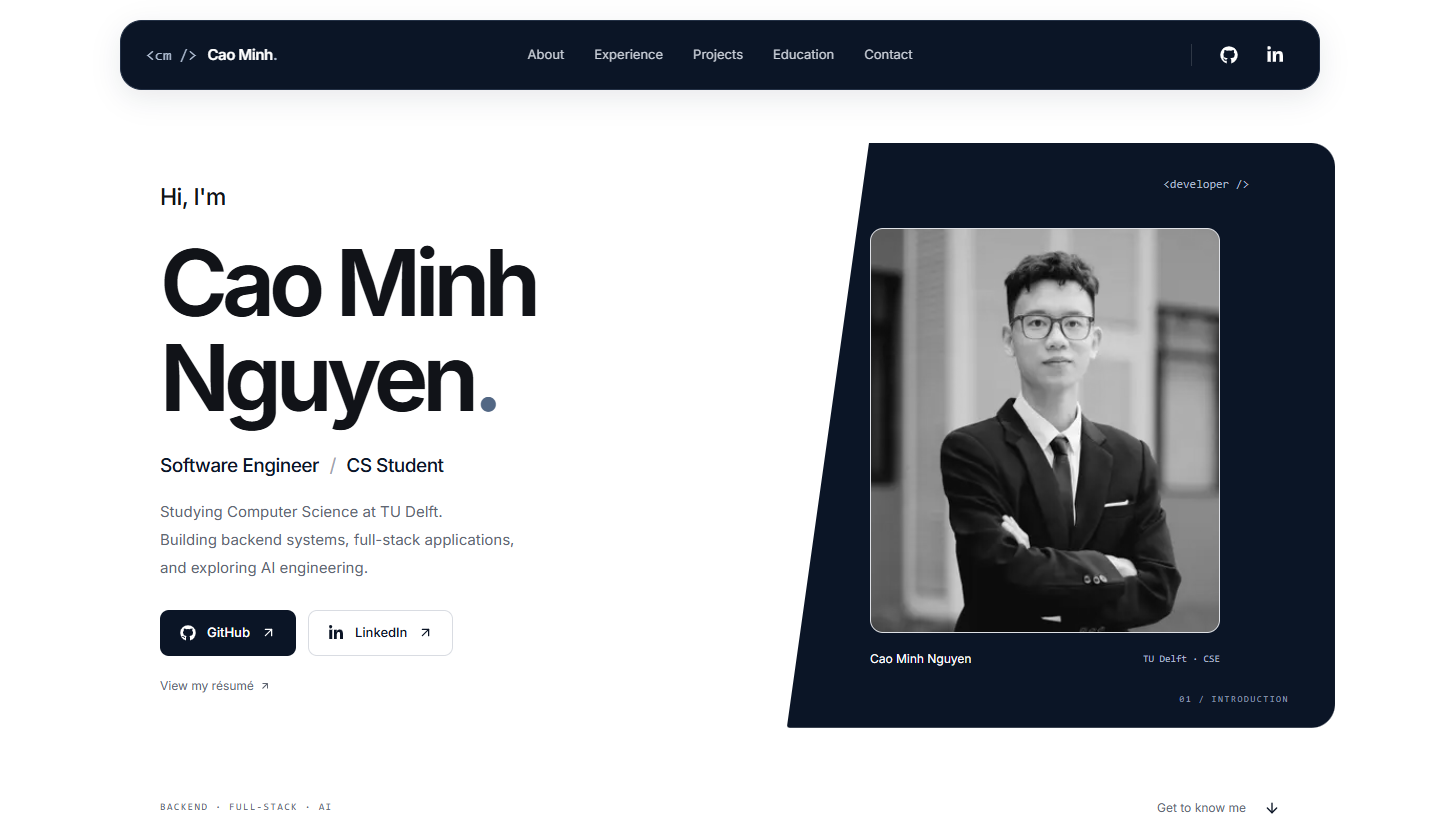
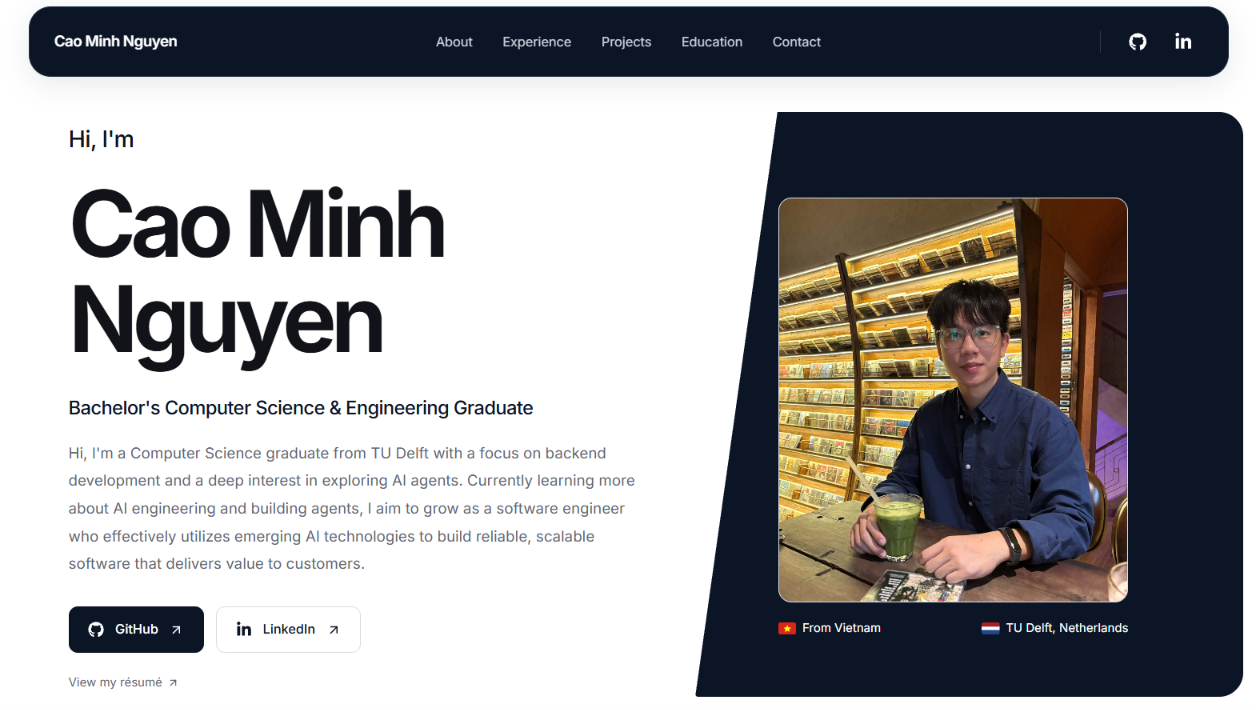
Edit button color

diff --git a/src/app/globals.css b/src/app/globals.css
@@ -8,7 +8,7 @@
   --soft: #f5f6f8;
   --background: #ffffff;
   --foreground: #111318;
-  --primary: #0b1526;
+  --primary: #162e50;
   --primary-foreground: #ffffff;
   --secondary: #f5f6f8;
   --secondary-foreground: #0b1526;
@@ -170,12 +170,14 @@ main:focus {
   border-radius: 10px;
   font-size: 18px;
   color: white;
+  background: var(--primary);
   transition:
     background 180ms,
     transform 180ms;
 }
 .nav-social:hover {
-  background: #ffffff12;
+  background: var(--primary);
+  box-shadow: 0 5px 15px #162e5026;
   transform: translateY(-2px);
 }
 .nav-actions::before {
@@ -187,7 +189,7 @@ main:focus {
 }
 .menu-toggle {
   display: none;
-  background: transparent;
+  background: var(--primary);
   border: 1px solid #ffffff25;
 }
 .mobile-nav {
@@ -277,21 +279,23 @@ main:focus {
   font-size: 15px;
 }
 .button-primary {
-  background: var(--navy);
+  background: var(--primary);
   color: white;
+  border-color: var(--primary);
 }
 .button-primary:hover {
-  background: #21334e;
-  box-shadow: 0 5px 15px #0b152618;
+  background: var(--primary);
+  border-color: var(--primary);
+  box-shadow: 0 5px 15px #162e5026;
   transform: translateY(-2px);
 }
 .button-outline {
   background: white;
-  color: var(--navy);
+  color: var(--primary);
   border-color: #d9dce2;
 }
 .button-outline:hover {
-  border-color: var(--navy);
+  border-color: var(--primary);
   background: #f7f8fa;
   transform: translateY(-2px);
 }
@@ -504,6 +508,24 @@ main:focus {
   background: var(--soft);
   border: 1px solid #e9ebef;
   border-radius: 5px;
+}
+.skill-tag {
+  transition:
+    transform 180ms ease,
+    box-shadow 180ms ease,
+    border-color 180ms ease;
+}
+@media (hover: hover) {
+  .skill-tag:hover {
+    transform: translateY(-3px) scale(1.04);
+    box-shadow: 0 5px 12px rgb(11 21 38 / 10%);
+    border-color: #c5cdd9;
+  }
+}
+@media (prefers-reduced-motion: reduce) {
+  .skill-tag:hover {
+    transform: none;
+  }
 }
 .experience-list {
   padding-left: 33px;
@@ -777,11 +799,11 @@ main:focus {
 }
 .pagination button[aria-current="page"] {
   color: white;
-  background: var(--navy);
-  border-color: var(--navy);
+  background: var(--primary);
+  border-color: var(--primary);
 }
 .pagination button:hover:not(:disabled):not([aria-current="page"]) {
-  color: var(--navy);
+  color: var(--primary);
   background: var(--soft);
 }
 .pagination button:disabled {
@@ -809,10 +831,20 @@ main:focus {
   width: 47px;
   height: 47px;
   border: 1px solid var(--line);
-  background: #f8f9fb;
+  background: #ffffff;
   color: var(--navy);
   font-size: 20px;
   border-radius: 10px;
+}
+.education-logo {
+  width: 100%;
+  height: 100%;
+  padding: 4px;
+  object-fit: contain;
+}
+.education-item h3 a:hover {
+  text-decoration: underline;
+  text-underline-offset: 3px;
 }
 .education-item h3 {
   font-size: 17px;

diff --git a/src/app/components/education.tsx b/src/app/components/education.tsx
@@ -1,4 +1,4 @@
-import { FiBookOpen } from "react-icons/fi";
+import Image from "next/image";
 import { education } from "../data/education";
 import SectionHeading from "./section-heading";
 
@@ -14,13 +14,24 @@ export default function Education() {
         {education.map((item) => (
           <article className="education-item" key={item.institution}>
             <span className="education-icon">
-              <FiBookOpen aria-hidden="true" />
+              <Image
+                src={item.logo}
+                alt={`${item.institution} logo`}
+                width={40}
+                height={40}
+                className="education-logo"
+              />
             </span>
             <div>
-              <h3>{item.institution}</h3>
+              <h3>
+                <a href={item.website} target="_blank" rel="noopener noreferrer">
+                  {item.institution}
+                </a>
+              </h3>
+              {item.faculty && <p>{item.faculty}</p>}
               <p>{item.degree}</p>
             </div>
-            <span className="education-years mono">{item.years}</span>
+            <span className="education-years">{item.years}</span>
           </article>
         ))}
       </div>

diff --git a/src/app/components/projects.tsx b/src/app/components/projects.tsx
@@ -78,7 +78,7 @@ export default function Projects() {
             badges={
               <div className="tag-list" aria-label="Technologies">
                 {project.tags.map((tag) => (
-                  <span className="tag" key={tag}>
+                  <span className="tag skill-tag" key={tag}>
                     {tag}
                   </span>
                 ))}
@@ -88,7 +88,7 @@ export default function Projects() {
               <>
                 {project.githubUrl && (
                   <a
-                    className="button button-outline"
+                    className="button button-primary"
                     href={project.githubUrl}
                     target="_blank"
                     rel="noopener noreferrer"
@@ -100,7 +100,7 @@ export default function Projects() {
                 )}
                 {project.liveUrl && (
                   <a
-                    className="button button-primary"
+                    className="button button-outline"
                     href={project.liveUrl}
                     target="_blank"
                     rel="noopener noreferrer"

diff --git a/src/app/data/education.ts b/src/app/data/education.ts
@@ -2,12 +2,18 @@ import { Education } from "../types";
 
 export const education: Education[] = [
   {
-    institution: "TU Delft",
-    degree: "BSc Computer Science & Engineering",
+    institution: "Delft University of Technology (TU Delft)",
+    website: "https://www.tudelft.nl/en/",
+    logo: "/logos/tudelft-logo.png",
+    faculty:
+      "Faculty of Electrical Engineering, Mathematics and Computer Science (EEMCS)",
+    degree: "Bachelor of Computer Science & Engineering",
     years: "2023 – 2026",
   },
   {
     institution: "Vinschool Times City",
+    website: "https://vinschool.edu.vn/en/home-page/",
+    logo: "/logos/vinschool-logo.png",
     degree: "Cambridge International AS & A Levels",
     years: "2021 – 2023",
   },

diff --git a/src/app/components/about.tsx b/src/app/components/about.tsx
@@ -108,7 +108,7 @@ export default function About() {
               <div className="tag-list">
                 {skills.map(({ name, Icon }) => (
                   <span
-                    className="tag inline-flex items-center gap-2"
+                    className="tag skill-tag inline-flex items-center gap-2"
                     key={name}
                   >
                     <Icon

diff --git a/src/app/types/index.ts b/src/app/types/index.ts
@@ -1,5 +1,8 @@
 export interface Education {
   institution: string;
+  website: string;
+  logo: string;
+  faculty?: string;
   degree: string;
   years: string;
 }
